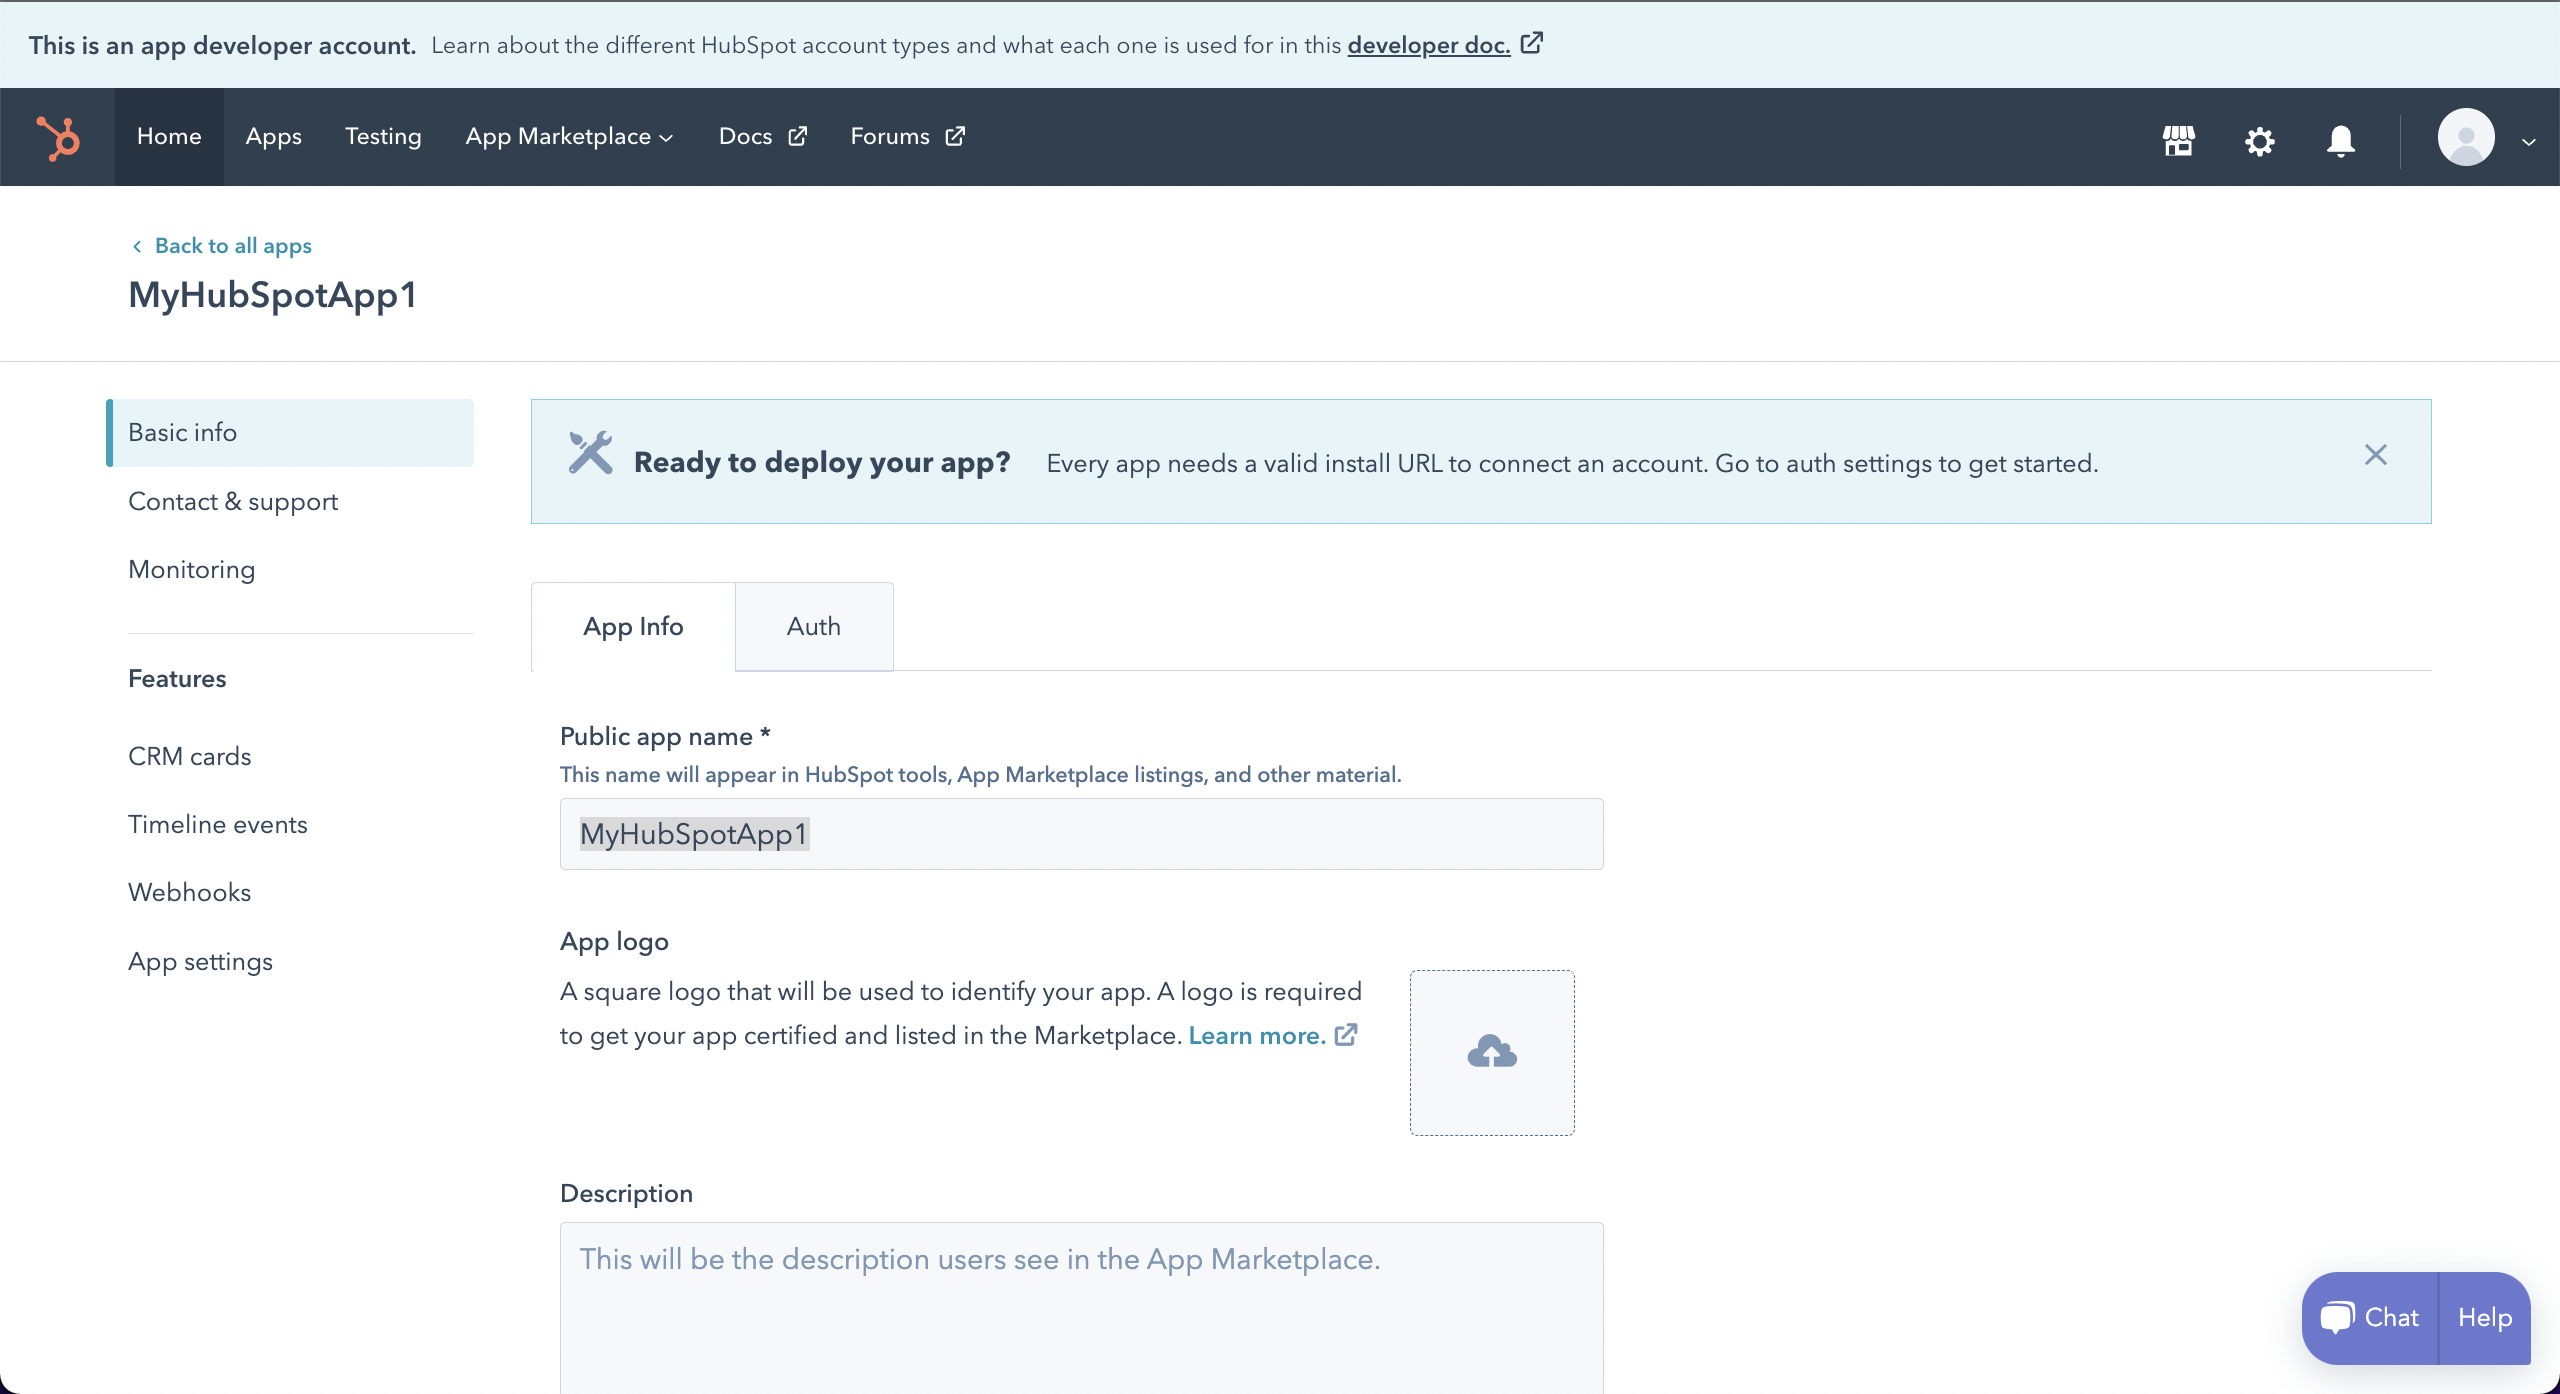
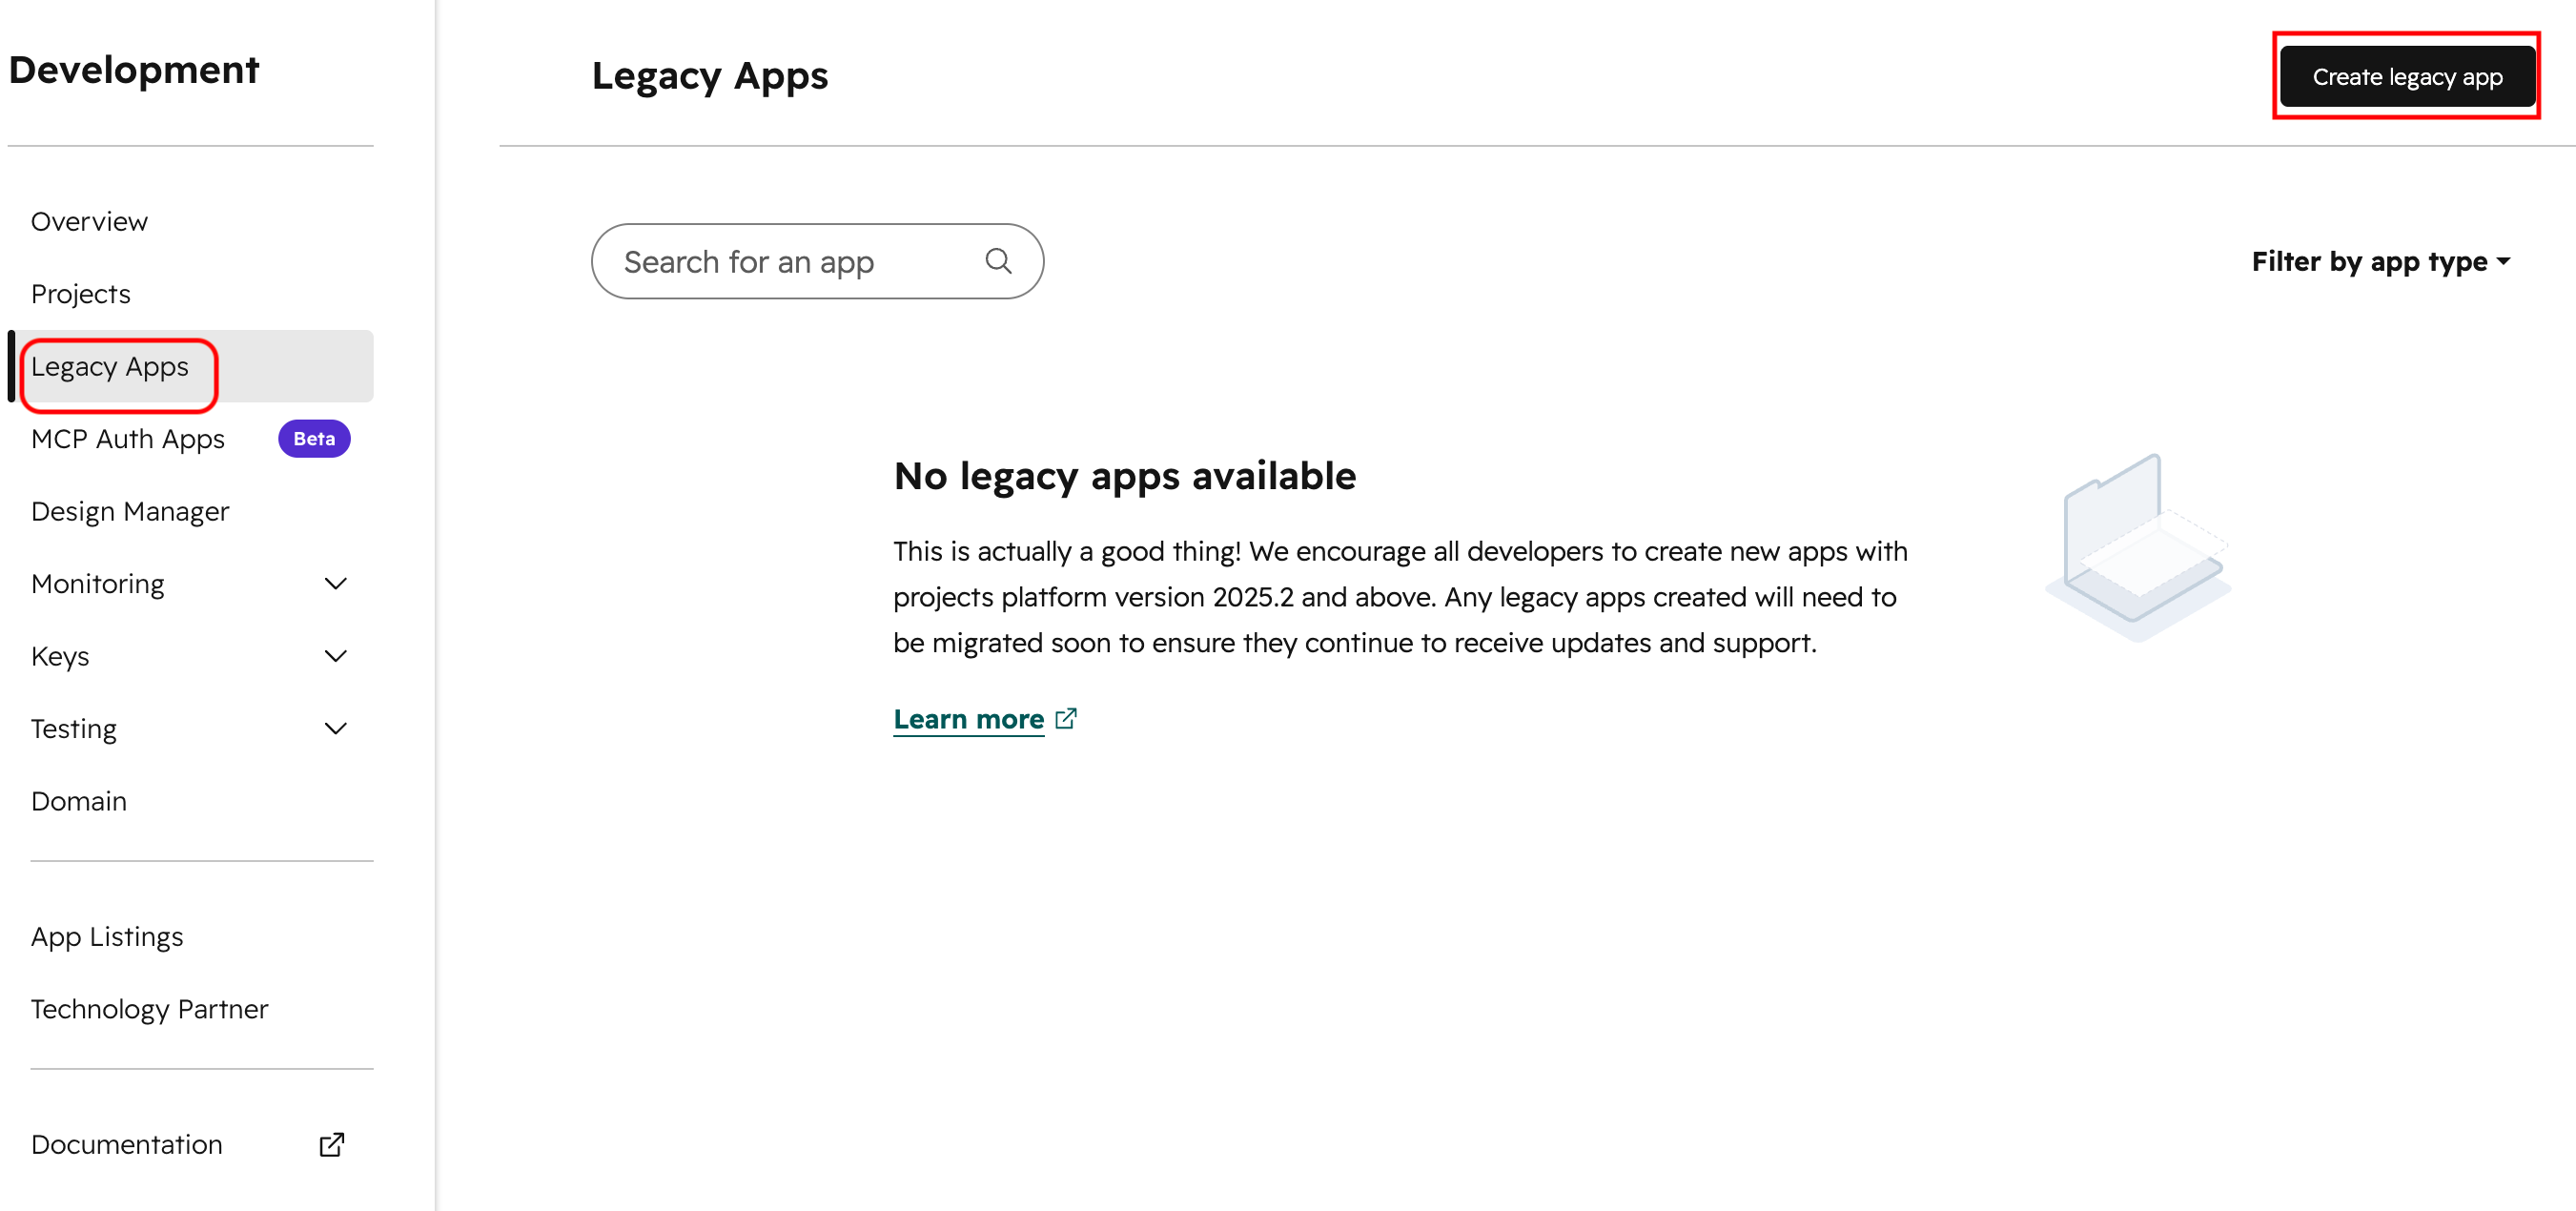
Removed Mistral references plus added contenttype

diff --git a/mcp-management/README.md b/mcp-management/README.md
@@ -26,7 +26,7 @@ In this set of labs, you will learn the following:
   > If you do not have an account and need one, please send an email to **[[email redacted]](mailto:[email redacted]?subject=Amplify%20Fusion%20-%20Training%20Environment%20Access%20Request&body=Hi%2C%0D%0A%0D%0ACould%20you%20provide%20me%20with%20access%20to%20an%20environment%20where%20I%20can%20practice%20the%20Amplify%20Fusion%20e-Learning%20labs%20%3F%0D%0A%0D%0ABest%20Regards.%0D%0A)** with the subject line `Amplify Fusion Training Environment Access Request`
 
 * An AI app with free subscription that supports adding custom MCP server or test MCP client:
-  * Mistral:   https://chat.mistral.ai/ 
+
   * Claude Desktop: 
     * Make sure you have node.js installed, or install it from https://nodejs.org/en/download
     * Install Claude for Desktop from https://claude.ai/download     
@@ -93,15 +93,6 @@ Let's add the "Check email" tool:
       ![image](images/mcp_lab1_step8.png)
 
 * Add the MCP in your client app
-  * Mistral:  
-      * Go to https://chat.mistral.ai/connections 
-      * Click on "Add connector"
-      * Select "Custom MCP connector"
-      * Set the name to "Contacts-Fusion-MCP-Server"
-      * Paste the coppied url in Connector Server
-      * Click Create
-      * You should see the MCP Server at the bottom of the app page, with the status "connected" and the list of tools.
-      ![image](images/mcp_lab1_test_mistral1.png)
   * Claude Desktop: 
     * Edit the Config file from File Menu > Settings > Developpers
     * Add the MCP server details to the config file (claude_desktop_config.json)
@@ -132,9 +123,9 @@ Let's add the "Check email" tool:
       ![image](images/mcp_lab1_test_postman1.png)
 
 * Test the MCP server
-  * with claude/mistral: start a new chat, make sure to enable the use of your MCP server in the chat and sent the prompt "Is "[email redacted]" a valid email?" or "Check "[email redacted]"
+  * with claude: start a new chat, make sure to enable the use of your MCP server in the chat and sent the prompt "Is "[email redacted]" a valid email?" or "Check "[email redacted]"
   
-      ![image](images/mcp_lab1_test_mistral2.png)      
+    
       ![image](images/mcp_lab1_test_claude2.png)
   * with postman: select the "check email" tool and test various email address
       ![image](images/mcp_lab1_test_postman2.png)
@@ -202,12 +193,11 @@ Let's add the "Check email" tool:
 * Go back to your MCP server and activate it
 
 * Refresh the MCP connection from the client:
-  * Mistral: Go to the connection and click refreh tools
   * Claude Desktop: Refresh with Ctrl+R or restart
   * Postman: Disconnect and Reconnect
 
 * Test the update MCP server
-  * with claude/mistral: sent a new prompt to update Alice's email 
+  * with claude: sent a new prompt to update Alice's email 
       ![image](images/mcp_lab2_step5.png)  
   * with postman: select the "update email" and test with required parameters
 
@@ -274,12 +264,11 @@ Let's add the "Check email" tool:
 * Go back to your MCP server and activate it
 
 * Refresh the MCP connection from the client:
-  * Mistral: Go to the connection and click refreh tools
   * Claude Desktop: Refresh with Ctrl+R or restart
   * Postman: Disconnect and Reconnect
 
 * Test the update MCP server
-  * with claude/mistral: sent a new prompt to search for Rebecca's details. You can combine all tools in the same prompt.
+  * with claude: sent a new prompt to search for Rebecca's details. You can combine all tools in the same prompt.
       ![image](images/mcp_lab3_step3.png)  
   * with postman: select the "search contact" and test with various parameters combinations
 

diff --git a/cloud-integration/README.md b/cloud-integration/README.md
@@ -46,6 +46,7 @@ In this lab, we'll set up a Salesforce Platform Event and start our integration 
 ![salesforce connection](images/lab1-salesforce-connection.png)
 * Create a Platform Event for New Contacts
     * Open Salesforce _Setup menu > Integration > Platform Events and click on "New Platform Event"
+    ![salesforce menu](images/lab1-salesforce-platform-event_new1.png)  
     ![salesforce menu](images/lab1-salesforce-platform-event_new.png)  
     * Set the Data Type as Text
   ![salesforce menu](images/lab1-salesforce-platform-event_datatype.png)  
@@ -98,6 +99,7 @@ In this lab, we'll set up a Salesforce Platform Event and start our integration 
 * Activate your integration 
 * Add a new contact in Salesforce _Sales menu > Contacts > New Contact_
   ![salesforce contact](images/lab1-salesforce-new-contact.png)
+  Ensure that the Firstname, Lastname and email fileds are filled. 
   ![salesforce contact](images/lab1-salesforce-new-contact-created.png)
 * Go to the Monitor and click on the transaction and see that you consumed the pushtopic contact
   ![transaction monitoring details](images/lab1-transaction-monitoring-details.png)
@@ -214,6 +216,12 @@ We'll use the Microsoft Teams Incoming Webhook Connector so that we can Post a m
     ```
 
   ![https client post component setvalue variable1](images/lab4-https-client-post-component-setvalue-variable.png)
+
+  Expose the headers and add a variable --> String --> Add Inside
+  Set the variable name as: Content-Type
+  Set its value as application/json
+
+  Save your HTTPS Client 
 * Activate your integration and create a new Salesforce contact and see the new contact in Hubspot and you should also have a message in your Microsoft Teams channel as follows:
   ![microsoft teams message](images/lab4-microsoft-teams-message.png)
 

diff --git a/cloud-integration/assets/hubspot-connection.md b/cloud-integration/assets/hubspot-connection.md
@@ -10,11 +10,10 @@ We will do the following:
 
 ## Hubspot Connected App
 
-* If you don't have a Hubspot account, create one at **[https://www.hubspot.com/](https://www.hubspot.com/)**. Skip all welcome wizards until you reach the Hubspot homepage
-  ![hubspot00](hubspot-connection/hubspot00.png)
+
 * If you don't have a Hubspot App Developer account, create one at [**https://developers.hubspot.com/**](https://developers.hubspot.com/) , choose App Developer option and skip all welcome wizzards if any until you reach the Hubspot Developer homepage
   ![hubspot01](hubspot-connection/hubspot01.png)
-* In your developer account, click on Manage Apps and click the Create App button to create a new app
+* In your developer account, click on Legacy Apps and Create legacy app button to create a new Legacy app
   ![hubspot02](hubspot-connection/hubspot02.png)
 * Give your app a name (e.g. AIP App) and optional Logo and Description
 * Click on the Auth tab to see your Client ID and Client Secret. You will need these when you setup the Amplify Fusion Hubspot Connection